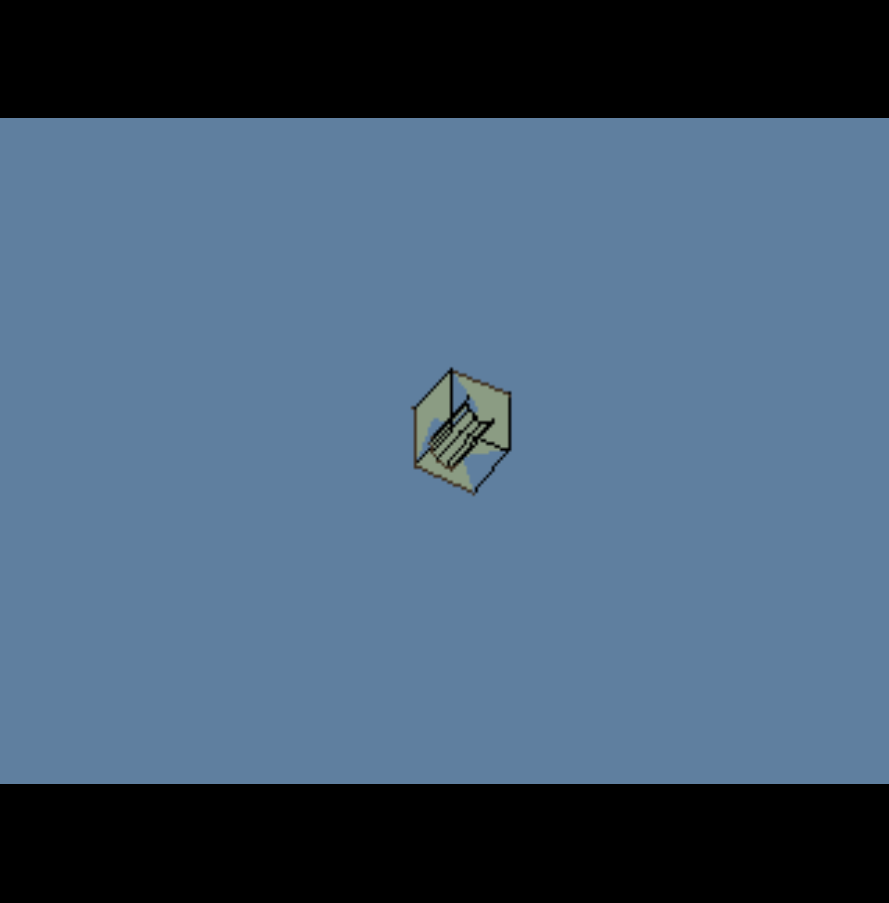
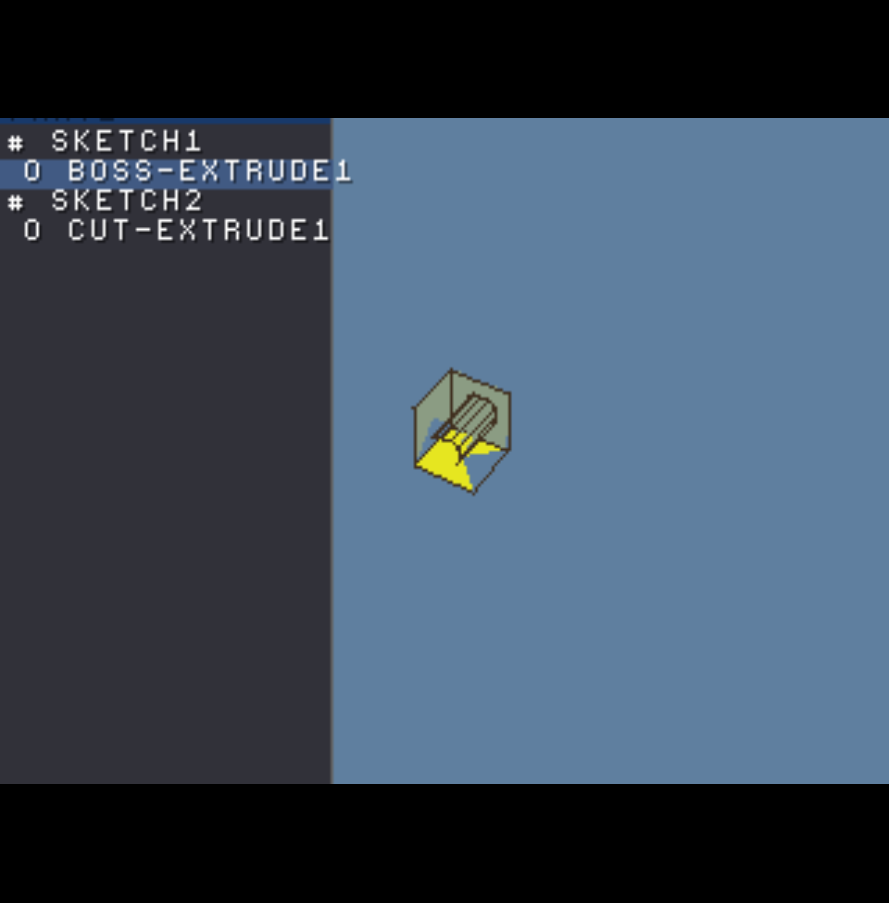
docs: README reflects the interactive modeller (7 new capabilities)
Updates the status to the picking / manipulation / FeatureManager /
interactive-modeling / memory-card reality, marks the cut as fused to a
single solid with a see-through bore, fixes the encoded size (94 B) and
assertion count (153), trims the TODO list, and refreshes the screenshots.

Changed region(s): [[0.0, 0.124, 0.3948, 0.8682], [0.4556, 0.4031, 0.5771, 0.5581]]

diff --git a/README.md b/README.md
@@ -4,12 +4,17 @@ A feature-based **parametric 3D solid modeller that runs as a PlayStation 1 exec
 SolidWorks-style interface and FeatureManager tree, DualShock input, memory-card saves —
 all in integer math on 2 MB RAM / 1 MB VRAM with no FPU.
 
-> **Status:** builds to a real `PS-X EXE`, **boots and renders the demo part** (a 60 mm cube
-> with a Ø30 bore) shaded at a stable 60 fps in DuckStation, with an orbit camera over the GTE
-> ordering-table renderer. The integer kernel is host-unit-tested (67 checks, clean under
-> ASan/UBSan + `-Wconversion`). Verified by sideloading into DuckStation; see the screenshot below.
+> **Status:** builds to a real `PS-X EXE` and runs as an **interactive modeller** on DuckStation
+> at a stable 60 fps. You can **orbit/zoom/pan** the part, **pick faces/edges/vertices** with a
+> cursor (hover-highlight + X to select), watch the selection light up in a **SolidWorks-style
+> FeatureManager tree** down the left, **author new boss/cut extrudes on a picked face** with live
+> preview + undo/redo, and **save/load to a memory card** (a real PS1 save the BIOS browser shows,
+> round-trips through the PC ripper). The through-cut fuses into a **single solid with a real
+> see-through bore**. The integer kernel is host-unit-tested (153 checks, clean under ASan/UBSan +
+> `-Wconversion`). All seven capabilities were built and validated this round; see the shots below.
 
-![MiniCAD-PSX booting the demo cube-with-bore in DuckStation](docs/screenshot.png)
+![MiniCAD-PSX: FeatureManager tree, picking highlight, and the see-through bore in DuckStation](docs/screenshot.png)
+![Authoring an extrude on a picked face with live preview](docs/screenshot_modeling.png)
 
 See **[DESIGN.md](DESIGN.md)** for the full architecture and the rationale behind every decision.
 See **[HARDWARE_REVIEW.md](HARDWARE_REVIEW.md)** for the R3000A/GTE/PSn00bSDK optimization pass
@@ -18,7 +23,7 @@ sine table). This README is just how to build and where things are.
 
 ## Why this exists / core ideas
 - **The feature tree is the file.** A part is a *recipe* (sketch → extrude/revolve + reference
-  geometry), not a mesh. The demo cube-with-hole serializes to **34 bytes**. Geometry is
+  geometry), not a mesh. The demo cube-with-hole serializes to **94 bytes**. Geometry is
   regenerated on load and re-tessellatable at any resolution.
 - **No floats anywhere.** Coordinates are integer *myriometers* (1 = 0.1 mm). "mm" is a
   display-time string trick. The GTE (integer coprocessor) is the transform engine; trig comes
@@ -50,8 +55,8 @@ cmake --build build
 ```
 The Debug config enables ASan + UBSan (UBSan guards the integer-overflow surface). Expect:
 ```
+encoded part size: 94 bytes
 PASSED (0 failures)
-encoded part size: 34 bytes
 ```
 
 Or compile the tests directly without CMake:
@@ -86,71 +91,59 @@ python3 tools/rip_mcad.py card.mcr --extract  # write .mcad files
 Works on standard 128 KB `.mcr/.mcd/.bin` dumps from DuckStation/PCSX or a hardware dumper.
 
 ## Status (what's real vs. TODO)
-**Working and tested on host (28 assertions pass; clean under ASan+UBSan):**
+**Kernel — working and host-tested (153 assertions pass; clean under ASan+UBSan + `-Wconversion`):**
 - Myriometer math + mm string formatter, integer sine/cos table
 - Arena + pool allocators with a memory budget
 - Integer half-edge B-rep with **automatic twin pairing** (edge table) + Euler check
-- `op_extrude` boss: rectangle **and circle** profiles → prism/cylinder, fully stitched,
-  Euler V−E+F=2 verified for both
+- `op_extrude` boss: rectangle **and circle** profiles → prism/cylinder, fully stitched
 - `op_revolve`: full and partial sweeps about an axis (offset-rect → tube), ring stitching + end caps
 - **End conditions**: Blind / Through-All (cut-only, enforced) / Up-To-Surface (ray-to-plane, integer)
 - **Boss vs. Cut** operation type, orthogonal to end condition
-- Feature tree + dependency-ordered regen (full cube-with-hole demo regenerates)
-- `.mcad` compact codec (varint, crc32, carries op/end/target) — 35-byte round-trip
+- **Cut → single solid with faces-with-holes** ✅ — the through-cut now *fuses* into the target:
+  the pierced caps become faces-with-holes and the bore wall is adopted into the same shell, so
+  the demo regenerates as **one body** (was two). Validated with the generalized Euler-Poincaré
+  check `V−E+F−R = 2(S−G)` (genus-1 → residual 0), no unpaired half-edges.
+- **`Sketch2` is the modeller's sketch type** ✅ — features now embed the full parametric sketcher
+  (shared points + entities-by-reference, construction flag, line/rect/circle, trim, integer
+  line-line & line-circle intersection); profile extraction + the `.mcad` codec (v2) run on it.
+- **Constraint solver** ✅ — direct rules (coincident/horizontal/vertical/equal/fix) *plus* a
+  fixed-point iterative solver (`sk_solve`) that converges **dimension / parallel / perpendicular /
+  tangent**.
+- Feature tree + dependency-ordered regen; `.mcad` compact codec (varint, crc32, carries
+  op/end/target) — 94-byte round-trip for the demo
+- **Undo/redo** (`app/history.h`): 10-deep snapshot ring over the `.mcad` codec; full semantics tested
 - Python memory-card ripper (directory parse, block-chain, crc32)
-- **Undo/redo** (`app/history.h`): 10-deep snapshot ring over the compact `.mcad` codec; full
-  semantics tested — undo/redo, redo-tail discard on a new edit, and oldest-snapshot eviction at
-  the 10 cap.
-- **Parametric sketcher** (`kernel/sketch.h`, `Sketch2`): shared points + entities-by-reference,
-  construction-geometry flag, add line/rect/circle, **trim** (delete or to-construction),
-  integer line-line & line-circle intersection, and a **direct-rule constraint resolver**
-  (coincident/horizontal/vertical/equal/fix) with dimension/tangent/parallel recorded and
-  flagged unsolved for the future solver. 11 sketcher assertions pass.
+- **Modeling core** (`app/modeling.c`, portable + host-tested): `plane_from_face`, pool-resetting
+  `model_regen_all`, and begin/set-distance/confirm/cancel for boss & cut extrudes
 
-**Honest cut caveat (the one real limitation):** the cut currently builds the hole's inner
-wall as its own solid (the demo regenerates as **2 solids**), rather than fusing into the
-target as a single face-with-hole solid. The geometry and tessellation are correct and render
-fine; what's missing is the shell merge so it reads as one body. `brep_build_face` already
-supports inner (hole) loops — wiring the cut to turn the target's hit face into a face-with-hole
-and adopt the wall is the next step. This is the pragmatic profile-on-a-face cut, not general CSG.
+**PS1-only layer — built against PSn00bSDK and validated on DuckStation:**
+- **Orbit/zoom/pan camera** (`render/camera.c`) — model→render scale baked into the GTE matrix
+  (no software scale pass); damped per-axis velocity filter; yaw-wrap, pitch clamp (no gimbal
+  flip); 6-view snap; zoom-to-fit; recenter.
+- **GTE ordering-table renderer** (`render/render.c`) — `ldv3→rtpt→nclip→avsz3→stotz` loop,
+  perspective-overflow FLAG guard, `(otz>>2)` bucketing with coplanar tie-break, scratchpad
+  working verts, wireframe-on-move, double-buffered OT build overlapping GPU draw. **Faces-with-
+  holes render as a see-through annulus** so the bore reads as a real hole on the pierced face.
+- **Picking** — an on-screen cursor picks the nearest face/edge/vertex of the active filter in
+  screen space; hover highlights (yellow), **X (Cross) commits** the selection (orange); it stays
+  lit and drives the FeatureManager.
+- **FeatureManager tree** (`render_panel`) — SolidWorks-style left panel listing the feature tree
+  with per-kind icons + dependency-depth indentation; the picked face's feature highlights.
+- **Interactive modeling** — with a face selected, **△ starts a boss / □ a cut** on it, the d-pad
+  nudges the distance with **live preview**, **X confirms** (commit + undo/redo), **○ cancels**.
+- **Memory-card save/load** — `io/memcard.c` writes a real single-block PS1 save (title frame +
+  16×16 icon + the `.mcad` payload) via the BIOS file API under the `BASLUS-MCAD` name the PC
+  ripper recognizes; **Select+Start save, Select+L1 load, Select+R1 new**. Round-trip verified:
+  saved on-console → `rip_mcad.py` extracts it, CRC OK → loaded back, geometry restored.
+- `foundation/sintab.c` — **baked ROM sine table** (host-generated, bit-exact vs libm).
 
-**Skeleton / TODO (clearly marked in source — best places to continue):**
-- **Migrate feature/ops/save to `Sketch2`** (the full sketcher) from the legacy `Sketch` — the
-  sketcher is built + tested standalone; wiring it as the modeller's sketch type is next
-- **Fixed-point Newton constraint solver** consuming the `SkConstraint` list (dimension/tangent/
-  parallel/perpendicular) — the data model + unsolved-count seam are already in place
-- Trim "segment between intersections" (currently delete-whole-entity fallback; intersection
-  math is implemented and ready to wire)
-- Cut shell-merge (face-with-hole fusion into the target solid) — see `op_extrude` OP_CUT branch
-- General line-chain profiles (`profile_to_ring` handles rect + circle; line-chains TODO)
+**Still TODO (clearly marked in source — best places to continue):**
+- Trim "segment between intersections" (delete-whole-entity fallback today; intersection math ready)
+- General line-chain profiles (`profile_to_ring` handles rect + circle; open line-chains next)
 - Reference-geometry datum computation (plane/axis/point from parents)
-- **Shell feature** (planned): offset faces inward + remove selected faces — the half-edge
-  adjacency now in place is exactly what this needs
-**PS1-only layer — verified booting and rendering on DuckStation (PSn00bSDK build):**
-These compile against PSn00bSDK and were boot-tested by sideloading `minicad.exe`. Bugs found
-and fixed during that bring-up: GTE `AVSZ4`→`AVSZ3` (a stale SZ3 was far-clipping most faces),
-the model→render zoom (was a no-op, and `FX_ONE*8` overflowed the int16 GTE matrix — clamped to
-`*4`), DualShock input driving the camera to extremes (stick-gating + first-frame priming),
-revolve face winding, and the through-cut depth (now spans the body, open-tube so no degenerate
-caps). They implement the hardware-review actions:
-- `render/camera.c` — orbit/zoom → GTE MATRIX with **model→render scale baked into the matrix**
-  (no software scale pass); 6-view snap; zoom-to-fit.
-- `render/render.c` — full GTE loop (`ldv3→rtpt→nclip→stopz→avsz4→stotz`), **perspective-overflow
-  guard** via GTE FLAG, `(otz>>2)` bucketing with coplanar tie-break after the shift, edges one
-  bucket in front, **scratchpad** working verts, wireframe-on-move, **double-buffered OT build
-  overlapping GPU draw**.
-- `input/input.c` — full DualShock map incl. filter scroll, selection verbs, d-pad value edit,
-  and **undo/redo bound to Select+△ / Select+○** via the history ring.
-- `foundation/sintab.c` — **baked ROM sine table** (host-generated, bit-exact vs libm), removing
-  boot-time trig + int64 soft-divide from the target binary.
-- `main.c` — frame loop with build/draw overlap, wiring input → camera → render.
-
-**Still TODO:**
-- Memory-card block write/read path + save icon TIM (the `.mcad` codec + ripper exist; the
-  on-console card I/O is not wired yet)
-- Migrate feature/ops/save onto the full `Sketch2` sketcher
-- Fixed-point Newton constraint solver; cut shell-merge; general line-chain profiles
-- Contextual-wheel + FeatureManager tree rendering on-console (designed; mockup shows the look)
+- **Shell feature**: offset faces inward + remove selected faces — the half-edge adjacency fits it
+- Serialize feature *names* in the codec (geometry/params round-trip exactly today; names don't)
+- Multi-file card saves + a fuller on-screen save/load menu (single fixed slot today)
 
 ## Prior art to lean on (this is deliberately not novel)
 PSn00bSDK examples · nocash psxspx specs · Pikuma "How PS1 Graphics Work" · Psy-Q ordering-table